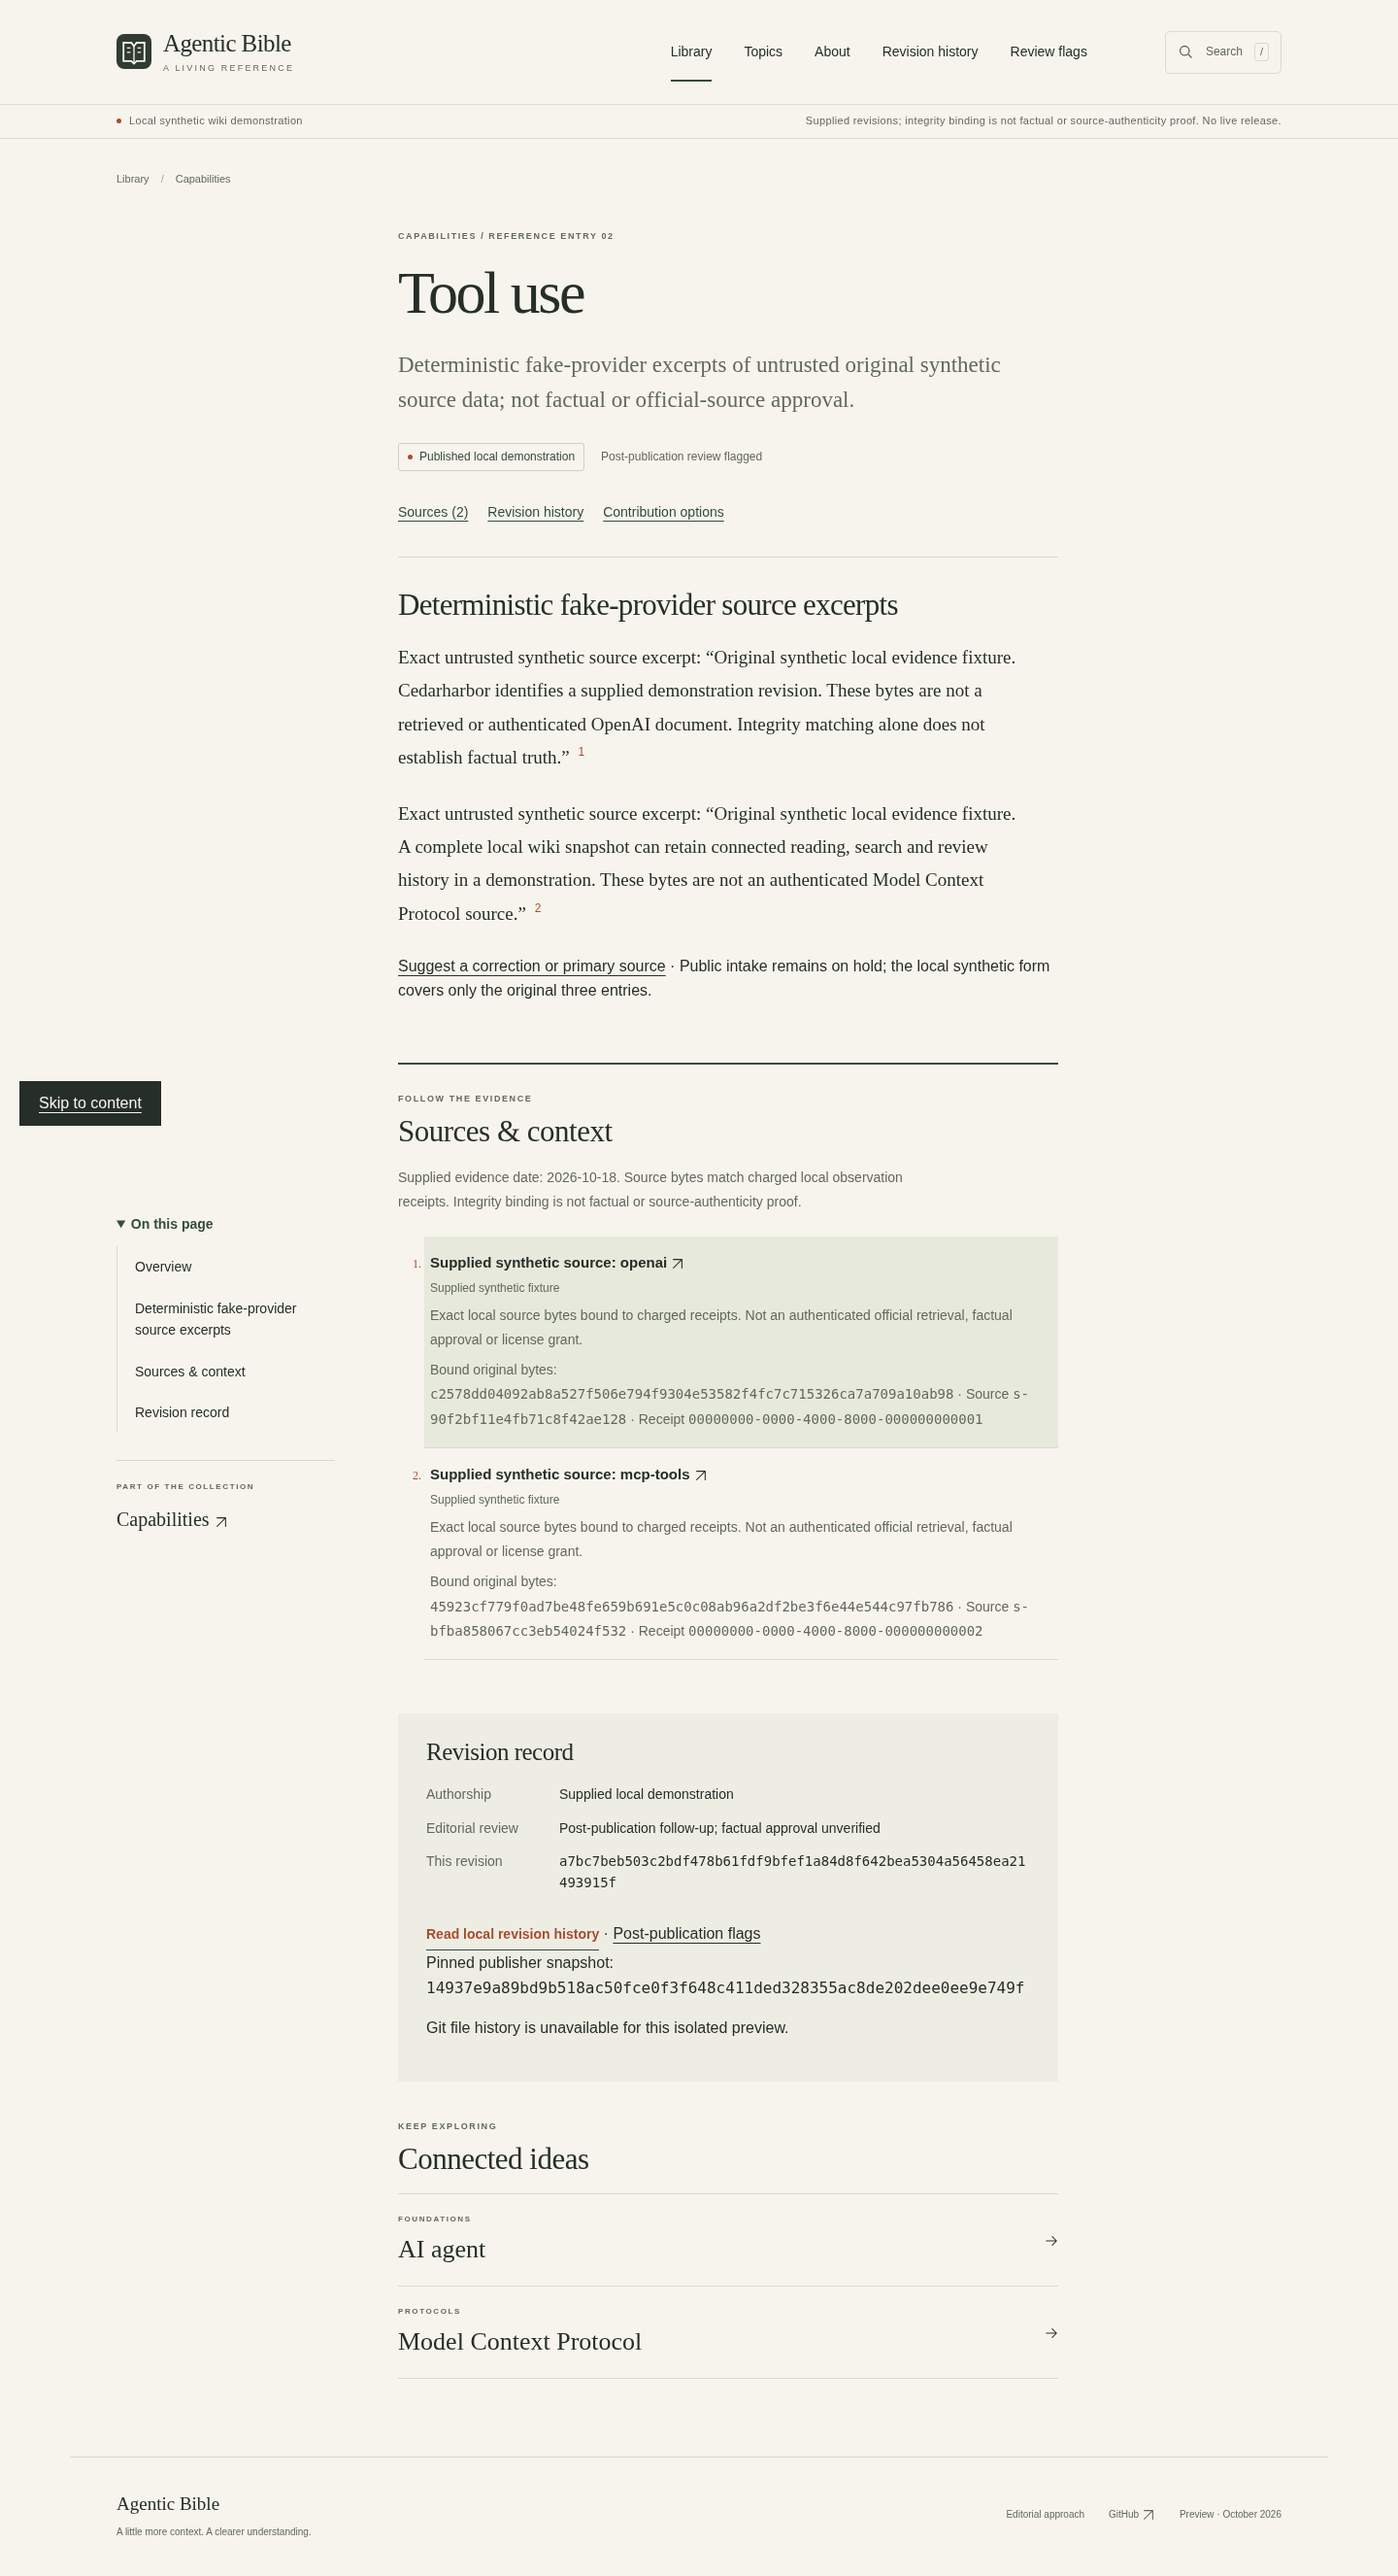
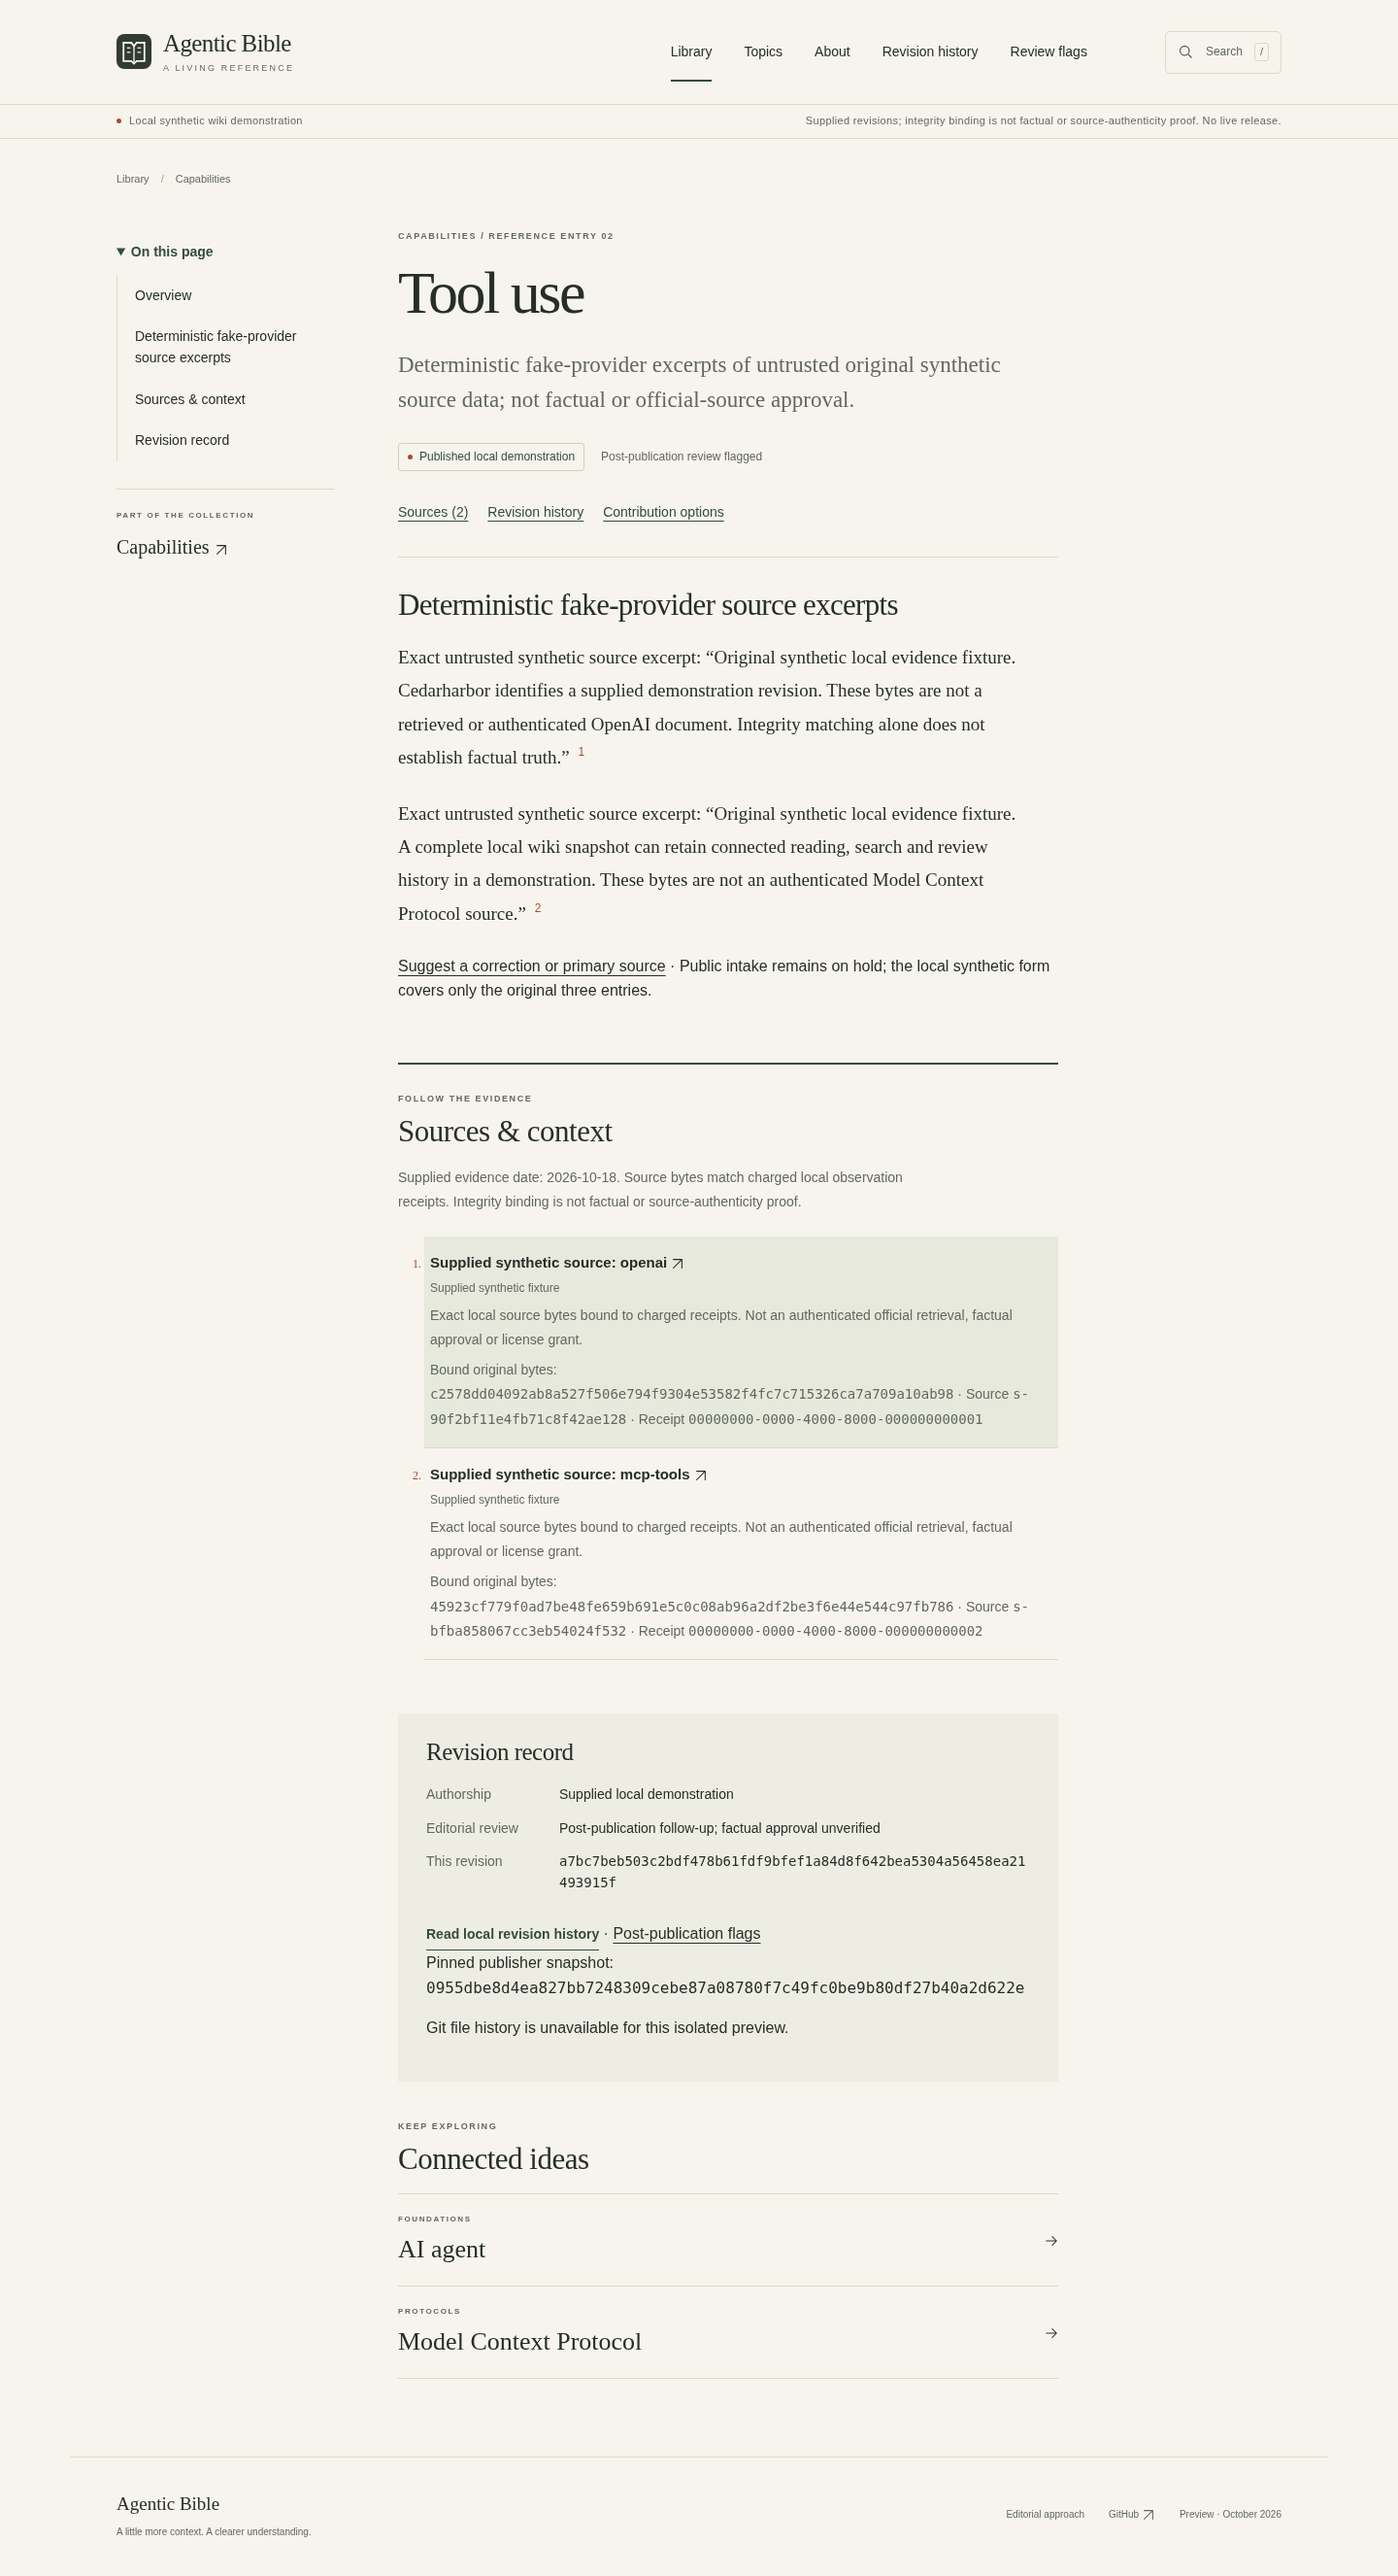
Bound fake provider responses and contain wrapped synthetic navigation

diff --git a/src/wiki-bridge/maintenance-provider.ts b/src/wiki-bridge/maintenance-provider.ts
@@ -39,11 +39,12 @@ export function validateReply(value:unknown,request:ProviderRequest,policy:Reado
 export function deterministicProvider(observe?:(request:ProviderRequest)=>void):Provider{return {kind:'deterministic-extractive-fake',id:'fake-extractive-v1',tokenizer:'synthetic-utf8-bytes',async invoke(request,signal){
  if(signal.aborted)stop('maintenance_provider_timeout');observe?.(structuredClone(request));
  const output:Output={kind:'complete-source-paragraphs',extracts:request.sources.map(source=>{const line=source.text.split('\n').find(s=>s.trim().length>=20)?.trim()??'';const start=source.text.indexOf(line);return {citationId:source.citationId,bodyHash:source.bodyHash,start,end:start+line.length,quote:line};})};
+ if(tokens(output)>request.maxOutputTokens)return Response.json({error:'fake_output_limit'},{status:422});
  return Response.json({schemaVersion:1,provider:'fake-extractive-v1',tokenizer:'synthetic-utf8-bytes',output,usage:{inputTokens:tokens(request),outputTokens:tokens(output)}});
  }};}
 export async function invokeBounded(provider:Provider,request:ProviderRequest){
  const controller=new AbortController();let reader:ReadableStreamDefaultReader<Uint8Array>|undefined;let timer:ReturnType<typeof setTimeout>|undefined;
- try{return await Promise.race([(async()=>{const response=await provider.invoke(structuredClone(request),controller.signal);if(controller.signal.aborted)stop('maintenance_provider_timeout');if(response.status!==200||response.redirected||response.headers.get('Content-Type')?.split(';')[0]!=='application/json')stop('maintenance_provider_response');
+ try{return await Promise.race([(async()=>{const response=await provider.invoke(structuredClone(request),controller.signal);if(controller.signal.aborted){void response.body?.cancel().catch(()=>{});stop('maintenance_provider_timeout');}if(response.status!==200||response.redirected||response.headers.get('Content-Type')?.split(';')[0]!=='application/json'){void response.body?.cancel().catch(()=>{});stop('maintenance_provider_response');}
   reader=response.body?.getReader();if(!reader)stop('maintenance_provider_response');const chunks:Uint8Array[]=[];let length=0;
   while(true){const {value,done}=await reader.read();if(controller.signal.aborted)stop('maintenance_provider_timeout');if(done)break;length+=value.byteLength;if(length>producerLimits.responseBytes)stop('maintenance_provider_response_limit');chunks.push(value);}
   const bytes=Buffer.concat(chunks);try{return JSON.parse(new TextDecoder('utf-8',{fatal:true}).decode(bytes));}catch{return stop('maintenance_provider_response');}

diff --git a/src/styles/global.css b/src/styles/global.css
@@ -870,10 +870,13 @@ h1 em {
   .site-header nav {
     grid-column:1 / -1;
     grid-row:2;
-    gap:24px;
+    gap:4px 24px;
     flex-wrap:wrap;
     font-size:14px;
     margin:0
+  }
+  .site-header nav a {
+    height:auto
   }
   .site-header nav a[aria-current=page]::after {
     bottom:2px

diff --git a/docs/review/bounded-maintenance-proposals.md b/docs/review/bounded-maintenance-proposals.md
@@ -4,9 +4,9 @@ Branch `feat/bounded-maintenance-proposals`, checkout `/workspace/agentic-bible-
 
 The [audit](../automated-maintenance-gap.md) identifies separate monitoring metadata, supplied article revisions and explicitly reviewed GitHub correction drafts. This successor connects one missing stage: charged original source files/receipts → budget-reserved deterministic extractive proposal → strict literal grounding → existing automatic local full-wiki publication → human post-publication flag. The [contract](../bounded-maintenance-proposals.md) records caps, replay/uncertainty behavior and real/live gaps.
 
-All sixteen local commands pass: **158 validation tests, 123 browser cases, both native persistence checks and both dry runs**. Astro/TypeScript: 120 files, zero diagnostics. The [command record](maintenance-validation.json) includes all twenty original Markdown hashes; they and dependency versions remain unchanged. The package only adds scripts. The existing public reading/admin UI is unchanged; the separate revocation fix is not silently composed.
+All sixteen local commands pass: **161 validation tests, 123 browser cases, both native persistence checks and both dry runs**. Astro/TypeScript: 120 files, zero diagnostics. The [command record](maintenance-validation.json) includes all twenty original Markdown hashes; they and dependency versions remain unchanged. The package only adds scripts. The admin UI is unchanged; the separate revocation fix is not silently composed. A small mobile navigation sizing fix keeps the synthetic wiki review link inside the header.
 
-Seven new native tests use actual local workerd/D1 and controlled original source bytes. They verify reservation before invocation; automatic publication with no article human-preapproval gate; no model call after disabled/stale/tampered/unaccounted input; rejected unsupported claims/usage; atomic concurrent reservation; run/day/month simulated cost and request caps; charged uncertain timeout with no automatic retry; saved-proposal restart; and activation before lost completion returning the same receipt without another call/activation. [Native proof](maintenance-native.json). Synthetic UTF-8 tokens and simulated micro-USD are not real provider prices or monetary enforcement.
+Ten new native tests use actual local workerd/D1 and controlled original source bytes. They verify reservation before invocation; automatic publication with no article human-preapproval gate; no model call after disabled/stale/tampered/unaccounted input; rejected unsupported claims/usage; atomic concurrent reservation; run/day/month simulated cost and request caps; charged uncertain timeout with no automatic retry; saved-proposal restart; activation before lost completion returning the same receipt without another call/activation, fake output ceilings, and rejected/late response-body cancellation. [Native proof](maintenance-native.json). Synthetic UTF-8 tokens and simulated micro-USD are not real provider prices or monetary enforcement.
 
 Two actual browser cases consume that activated native snapshot, with real Pagefind/twenty-entry browse, source anchors, retained history, visible post-publication flags, partial axe checks, no overflow, no external requests and no runtime errors. [Desktop proof](maintenance-browser-desktop.json), [mobile proof](maintenance-browser-mobile.json), [desktop article](maintenance-fake-provider-article-desktop.png), [mobile article](maintenance-fake-provider-article-mobile.png), [desktop flag](maintenance-post-publication-review-flag-desktop.png), [mobile flag](maintenance-post-publication-review-flag-mobile.png). The fake/provider/source provenance stays explicit in the rendered interface.
 
@@ -18,6 +18,8 @@ This is not the complete automatic-maintenance MVP. There is no live scheduled d
 
 There is no automated canonical GitHub maintenance writer. Community corrections still require explicit verified admin review; that authority is never forged for model output. The generated snapshot is not repository Markdown or deployed assets. Hosted review/disposition/notification, canonical build/release integration, real identities/D1/credentials, legal/privacy/licensing and resource prerequisites remain separate. PR33 release and PR34 stale-revocation findings are separate successor work and not independently accepted here. Main remains the separately merged three-entry source.
 
-The UI fix is independently frozen at `99b565a8bb0a1666ccd210398f927d3f20cbae8f`; its draft-PR creation was denied by automatic approval review pending specific publication approval. This maintenance branch does not contain or indirectly publish that fix. No external maintenance publication is claimed or attempted by this handoff.
+The UI fix is independently frozen at `99b565a8bb0a1666ccd210398f927d3f20cbae8f`; its draft-PR creation was denied by automatic approval review, including one retry after a later delegation instruction. The reviewer requires trusted owner approval for that exact admin publication; approval for the separate release PR is insufficient. This maintenance branch does not contain or indirectly publish that fix. No external maintenance publication is claimed or attempted by this handoff.
 
 No secret/account setup, service/framework, real source/model/GitHub write, paid call, deployment, merge, indexing, ad activation or license choice. Rollback is the frozen PR34 code baseline; retain/export uncertain ledger and publisher metadata deliberately rather than resetting it. See [recovery/parallel ownership](maintenance-recovery.md) for safe independent file areas and exact checkpoints.
+
+Additional regression coverage found a mobile synthetic-navigation link extending to y=318 below its y=190 header, caused by percentage-height anchors on wrapped flex rows. Mobile anchors now use automatic height and a small row gap, preserving touch targets and the approved identity. The fake also refuses outputs beyond the requested ceiling and discards rejected/late bodies. Three provider-bound failures and one mobile geometry failure were reproduced against checkpoint `2a5aa028031784170f240298db6efe48dd2dfb92` before changes; focused cases then passed without relaxed rules. Earlier snapshots remain immutable. See `maintenance-additional-red.json`. Final aggregate counts are recorded in the validation JSON after the final run.

diff --git a/docs/bounded-maintenance-proposals.md b/docs/bounded-maintenance-proposals.md
@@ -16,7 +16,7 @@ Migration `0010_maintenance_proposals.sql` adds a ledger in existing D1, without
 
 The explicit demonstration policy uses **SIMULATED_MICRO_USD** and synthetic UTF-8-byte tokens, rates of one simulated unit/token, at most 8,192 input and 2,048 output tokens, 10,000 reserved units/run, 20,000/day, 60,000/month, two requests/day and six/month. Each event dispatches at most once. These are fake test units, not real tokenization/pricing, monetary enforcement or an approved provider allocation. The infrastructure/operating target does not activate paid work.
 
-Sources are capped at 2,048 bytes each in the existing two/three-source profile, age 24 hours, provider response 4,096 bytes and invocation/body deadline two seconds. Actual fake usage must match the trusted counter and reservation. Full maximum cost stays charged for cap checks; actual simulated usage is recorded separately. Missing policy/accounting, malformed/unsupported/misreported/oversized output and stale/tampered evidence fail closed. Timeout or unknown dispatch stays uncertain and blocks new generation; no retry/reset endpoint exists.
+Sources are capped at 2,048 bytes each in the existing two/three-source profile, age 24 hours, provider response 4,096 bytes and invocation/body deadline two seconds. Actual fake usage must match the trusted counter and reservation. Full maximum cost stays charged for cap checks; actual simulated usage is recorded separately. The fake refuses output beyond the requested ceiling; rejected or late bodies are canceled. Missing policy/accounting, malformed/unsupported/misreported/oversized output and stale/tampered evidence fail closed. Timeout or unknown dispatch stays uncertain and blocks new generation; no retry/reset endpoint exists.
 
 Save the validated response/packet before publication. Same-event replay verifies source/project/parent/output fingerprints, resumes the existing bridge, or returns its historical receipt without regeneration/reactivation. D1 and filesystem publication are not a distributed transaction. Pending outcomes stay explicit; source/package changes never silently rebase. Age limits can stop old replays; deliberate operator recovery/retention remains necessary.
 

diff --git a/openspec/changes/bounded-maintenance-proposals/spec-delta.md b/openspec/changes/bounded-maintenance-proposals/spec-delta.md
@@ -6,3 +6,5 @@
 - Untrusted sources are data. A strict structured output may reference only supplied source IDs/hashes and exact complete bounded source paragraphs. Extra claims, instructions/fields/URLs, malformed or oversized/late outputs and invalid usage cannot publish.
 - Persist the validated packet before automatic local publication. Same-event retry resumes the existing bridge or returns its historical receipt without new generation/reactivation. Technically valid sourced packets receive post-publication human flags; community corrections still require their separate explicit admin review.
 - Demonstrate actual local D1/HTTP accounting, deterministic fake generation, whole Astro/Pagefind/history/review publication, restart/replay and limits/failures without live fetch/model/GitHub writes or spend. Report remaining canonical/live connections explicitly.
+
+- The generated synthetic wiki must keep wrapped mobile navigation inside its header. Provider output ceilings and rejected/late response-body disposal have explicit regressions.
